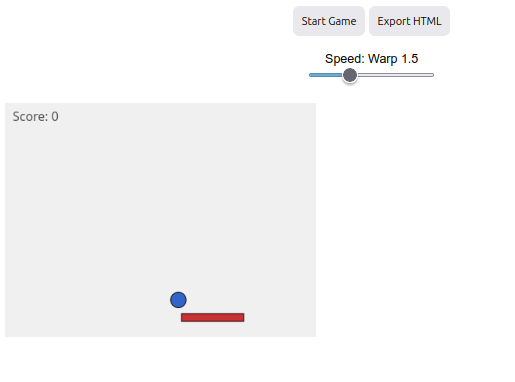
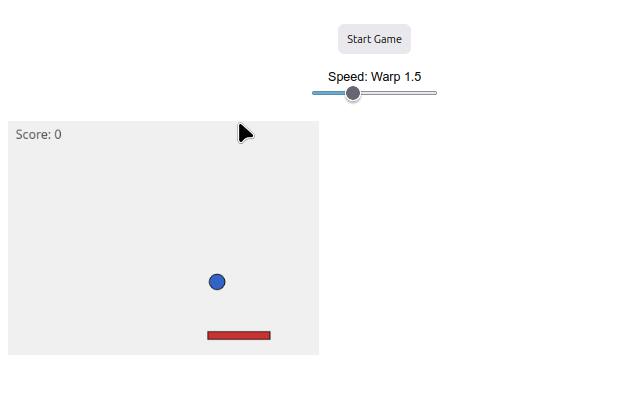
p

diff --git a/_site/pt/nivel/basico/jsplotly/Eq/pong.html b/_site/pt/nivel/basico/jsplotly/Eq/pong.html
@@ -978,6 +978,7 @@ function criarPongInterativo() {
 }
 
 // ---------- UI no JSPlotly ----------
+// ---------- UI no JSPlotly ----------
 (function initUI(){
   var g = document.getElementById('grafico');
   if (!g) return;
@@ -1004,6 +1005,7 @@ function criarPongInterativo() {
   });
 })();
 
+
 // ---------- Export HTML (self-contained) ----------
 (function(){
   function strToB64(s){
@@ -1013,21 +1015,21 @@ function criarPongInterativo() {
     } catch(e){ return btoa(unescape(encodeURIComponent(s))); }
   }
   function makeHTML(dark,b64Sound,b64Sfx,b64Sketch){
-    var head=[
-      '<!DOCTYPE html>','<html lang="en">','<head>',
-      '  <meta charset="UTF-8">','  <title>Pong</title>',
-      '  <script src="https://cdnjs.cloudflare.com/ajax/libs/p5.js/1.9.0/p5.min.js"><\\/script>',
-      '  <style>',
-      '    body{background-color:',(dark?'#1e1e1e':'#ffffff'),';color:',(dark?'#e0e0e0':'#000000'),';font-family:sans-serif;text-align:center;margin:20px;}',
-      '    #jogoArea{margin-top:20px;} button{padding:6px 12px;}',
-      '  </style>',
-      '</head><body>',
-      '  <h2>Pong</h2>',
-      '  <button id="btnStart">Start Game</button> <button id="btnExport">Export HTML</button><br><br>',
-      '  <label>Speed: <span id="warpValor">Warp 1.5</span></label><br>',
-      '  <input type="range" id="warpSlider" min="0" max="5" step="0.1" value="1.5"><br>',
-      '  <div id="jogoArea"></div>'
-    ].join('');
+    var head = [
+  '<!DOCTYPE html>','<html lang="en">','<head>',
+  '  <meta charset="UTF-8">','  <title>Pong</title>',
+  '  <script src="https://cdnjs.cloudflare.com/ajax/libs/p5.js/1.9.0/p5.min.js"><\\/script>',
+  '  <style>',
+  '    body{background-color:',(dark?'#1e1e1e':'#ffffff'),';color:',(dark?'#e0e0e0':'#000000'),';font-family:sans-serif;text-align:center;margin:20px;}',
+  '    #jogoArea{margin-top:20px;} button{padding:6px 12px;}',
+  '  </style>',
+  '</head><body>',
+  '  <h2>Pong</h2>',
+  '  <button id="btnStart">Start Game</button><br><br>',   // <-- só Start
+  '  <label>Speed: <span id="warpValor">Warp 1.5</span></label><br>',
+  '  <input type="range" id="warpSlider" min="0" max="5" step="0.1" value="1.5"><br>',
+  '  <div id="jogoArea"></div>'
+].join('');
     var boot=[
       '<script>',
       'function b64ToStr(b){var bin=atob(b),len=bin.length,arr=new Uint8Array(len);for(var i=0;i<len;i++){arr[i]=bin.charCodeAt(i);}try{return new TextDecoder("utf-8").decode(arr);}catch(e){var s="";for(var j=0;j<len;j++){s+=String.fromCharCode(arr[j]);}return s;}}',
@@ -1036,16 +1038,23 @@ function criarPongInterativo() {
       'eval(b64ToStr("',b64Sketch,'"));',
       '<\\/script>'
     ].join('');
-    var tail=[
-      '<script>',
-      '["pointerdown","touchstart","click","keydown"].forEach(function(ev){window.addEventListener(ev,function(){try{if(window.Sound&&Sound.resume)Sound.resume();}catch(e){}},{once:true,passive:true});});',
-      'document.getElementById("btnStart").addEventListener("click",function(){ try{Sound.resume();}catch(e){} try{if(window.sfx)sfx("wall");}catch(e){} document.getElementById("jogoArea").innerHTML=""; criarPongInterativo(); });',
-      'document.getElementById("warpSlider").addEventListener("input",function(){ document.getElementById("warpValor").innerText="Warp "+this.value; });',
-      '<\\/script>',
-      '</body></html>'
-    ].join('');
-    return head+boot+tail;
-  }
+    var tail = [
+  '<script>',
+  '["pointerdown","touchstart","click","keydown"].forEach(function(ev){',
+  '  window.addEventListener(ev,function(){try{if(window.Sound&&Sound.resume)Sound.resume();}catch(e){}},{once:true,passive:true});',
+  '});',
+  'document.getElementById("btnStart").addEventListener("click",function(){',
+  '  try{Sound.resume();}catch(e){} try{if(window.sfx)sfx("wall");}catch(e){}',
+  '  document.getElementById("jogoArea").innerHTML=""; criarPongInterativo();',
+  '});',
+  'document.getElementById("warpSlider").addEventListener("input",function(){',
+  '  document.getElementById("warpValor").innerText="Warp "+this.value;',
+  '});',
+  '<\\/script>',
+  '</body></html>'
+].join('');
+return head + boot + tail;
+}
 
   function __pong_exportHTML(){
     var dark = document.body.classList.contains('dark-mode');
@@ -1068,15 +1077,6 @@ const Sound=(function(){let ctx=null,master=null;function ensureCtx(){if(!ctx){c
   // expõe pro botão html do JSPlotly
   window.salvarProjetoSomenteGrafico = __pong_exportHTML;
 
-  // também cria um botão "Export HTML" ao lado do Start ao rodar no clone
-  try{
-    var bStart = document.getElementById('btnStart');
-    if (bStart && !document.getElementById('btnExport')) {
-      var b = document.createElement('button'); b.id='btnExport'; b.textContent='Export HTML'; b.style.marginLeft='8px';
-      bStart.parentNode.insertBefore(b, bStart.nextSibling);
-      b.addEventListener('click', __pong_exportHTML);
-    }
-  }catch(e){}
 })();
 
 `;
